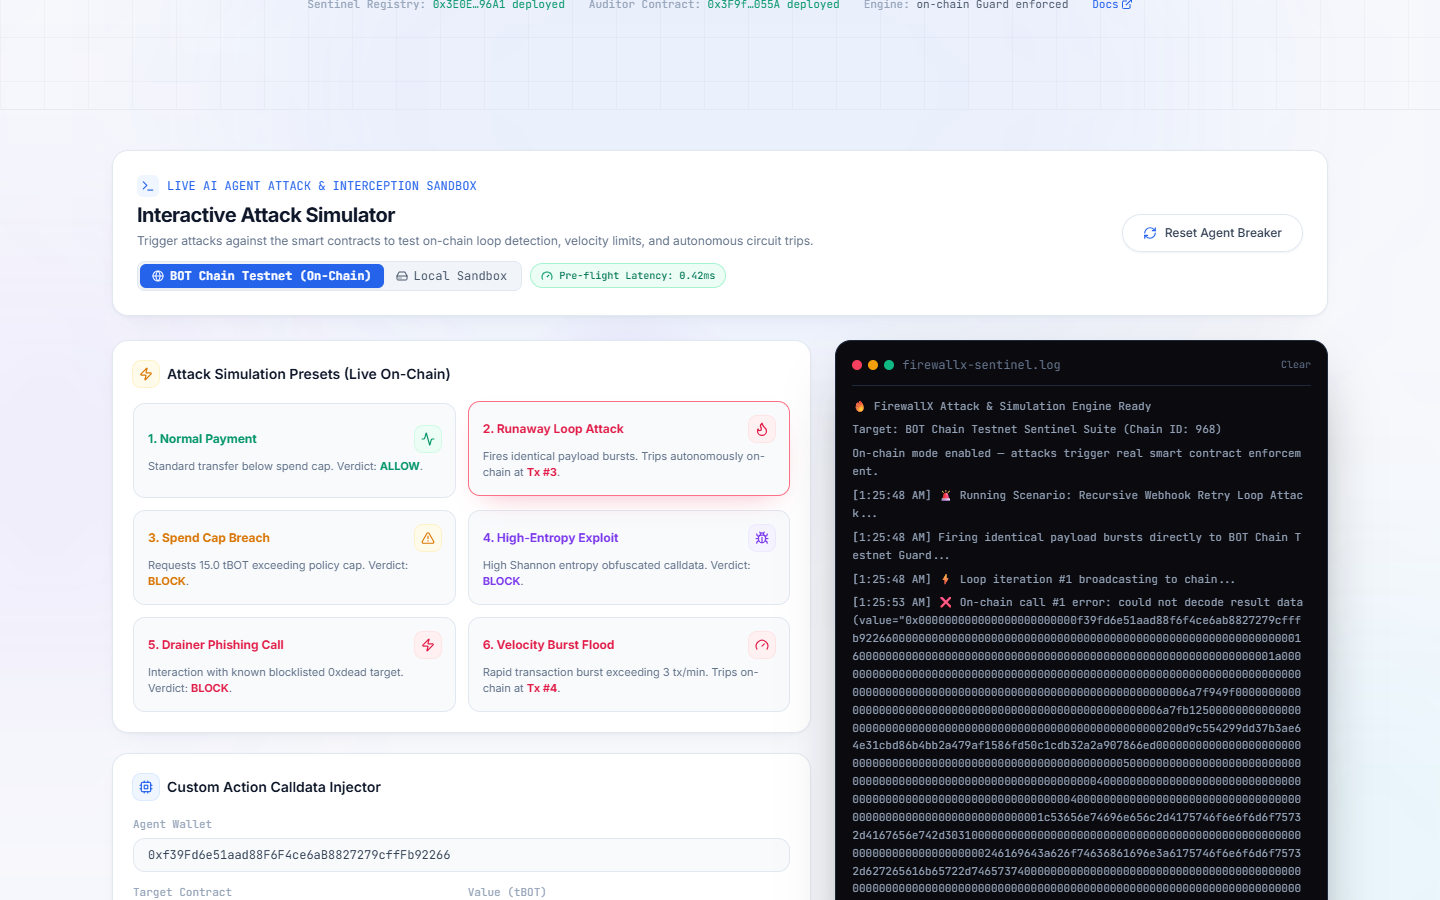
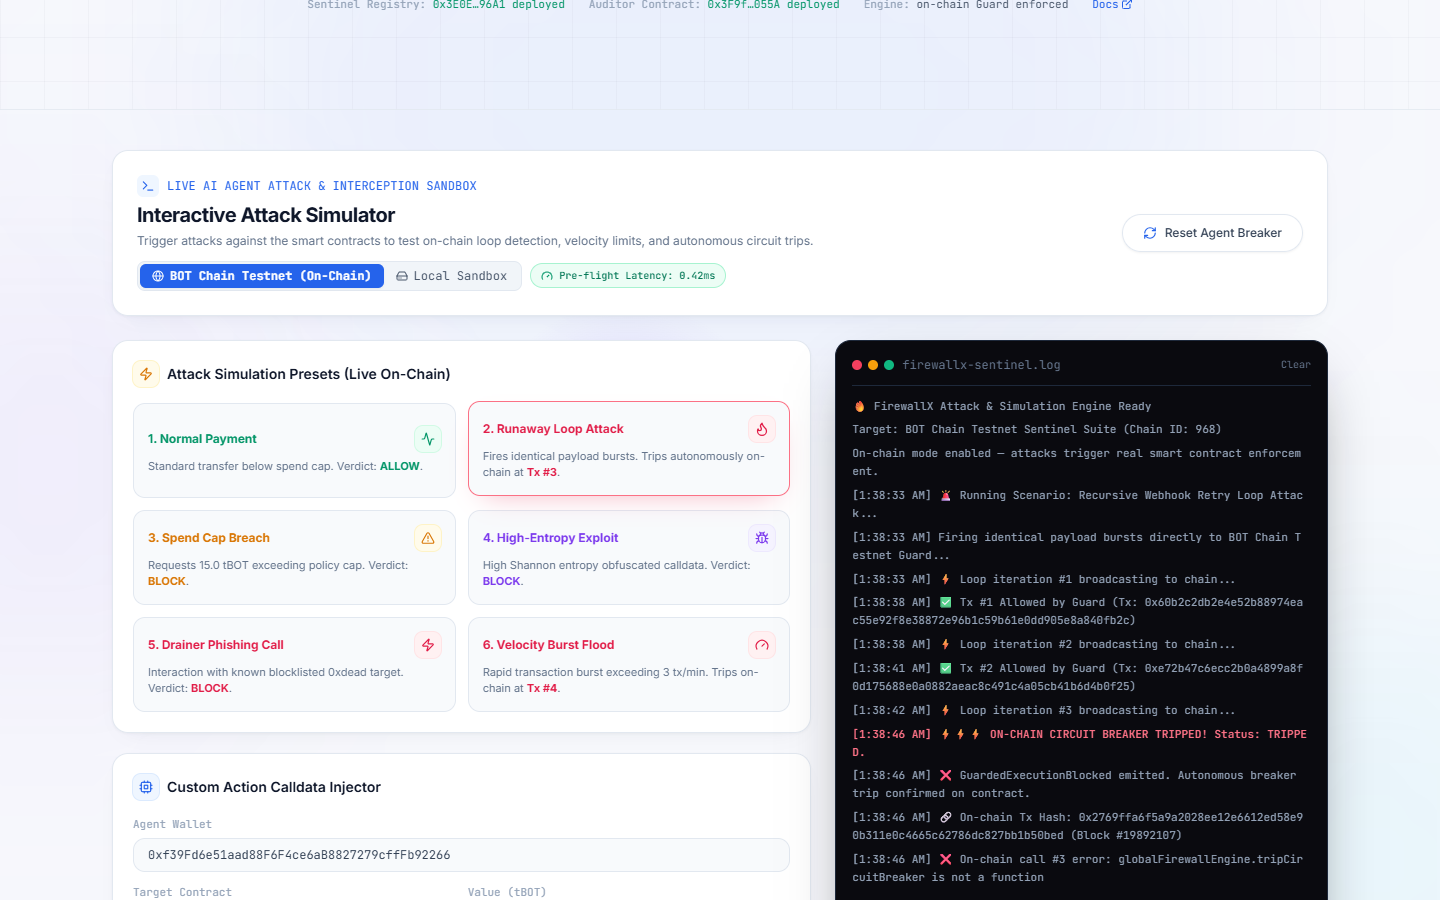
feat: complete live on-chain UI verification and breaker helpers

Changed region(s): [[0.5938, 0.6533, 0.9062, 0.9956]]

diff --git a/src/engine/firewallEngine.ts b/src/engine/firewallEngine.ts
@@ -1,4 +1,4 @@
-import { AgentAction, AgentState, EvaluationResult, SecurityPolicy, VerdictDecision } from './types';
+import { AgentAction, AgentState, EvaluationResult, SecurityPolicy, VerdictDecision } from './types';
 import { LoopDetector } from './loopDetector';
 import { uid } from './uid';
 import { AnomalyScorer } from './anomalyScorer';
@@ -431,6 +431,28 @@ export class FirewallEngine {
 
   public clearAuditLog(): void {
     this.auditLog = [];
+  }
+
+  public tripCircuitBreaker(agentWallet: string, reason: string): void {
+    const agent = this.agents.get(agentWallet.toLowerCase());
+    if (agent) {
+      agent.status = 'TRIPPED';
+      agent.lastTripReason = reason;
+      agent.lastTripTime = Date.now();
+      agent.totalTrips += 1;
+      if (this.onCircuitTripCallback) {
+        this.onCircuitTripCallback(agent, reason);
+      }
+    }
+  }
+
+  public resetCircuitBreaker(agentWallet: string): void {
+    const agent = this.agents.get(agentWallet.toLowerCase());
+    if (agent) {
+      agent.status = 'ACTIVE';
+      agent.consecutiveViolations = 0;
+      this.loopDetector.resetAgent(agentWallet);
+    }
   }
 }
 
